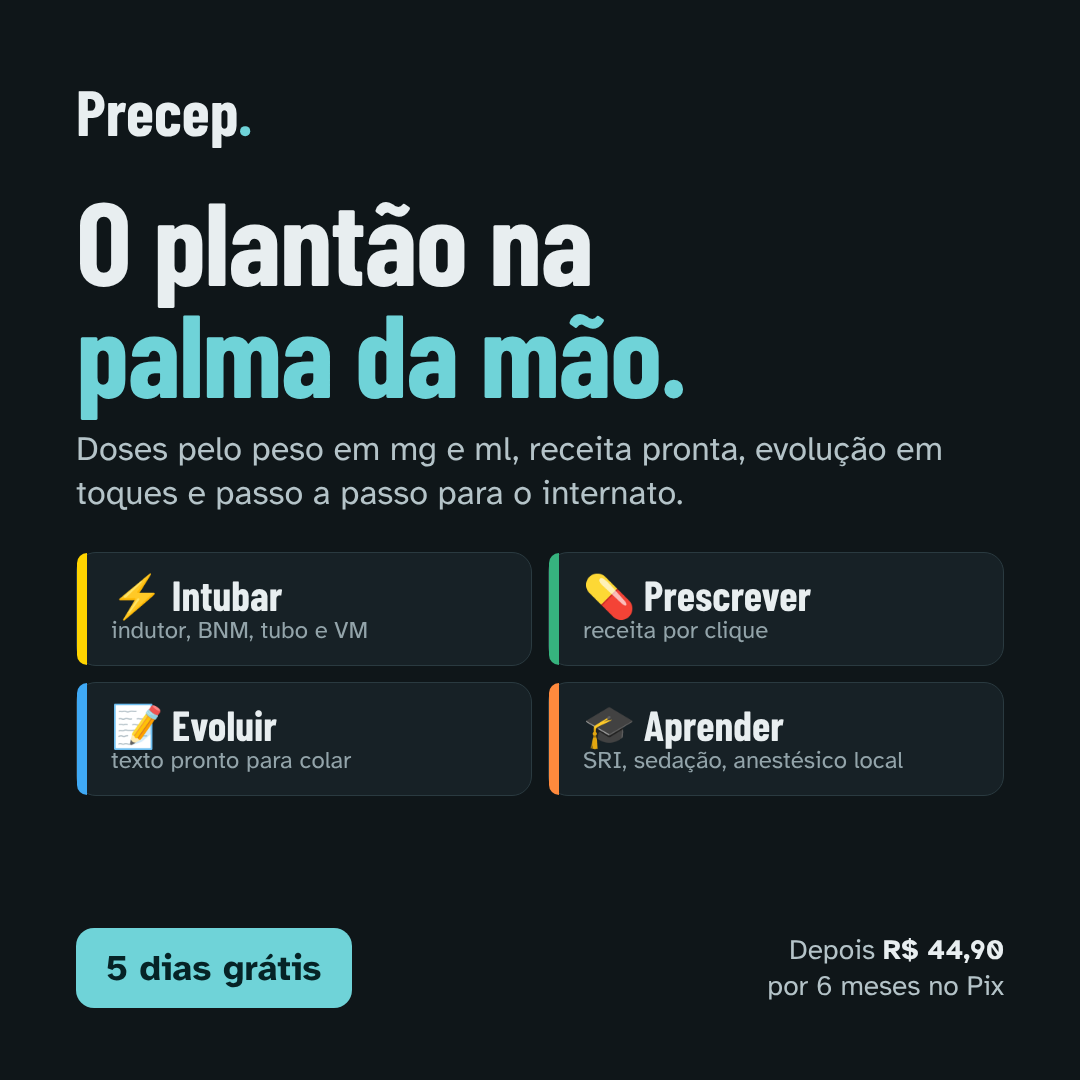
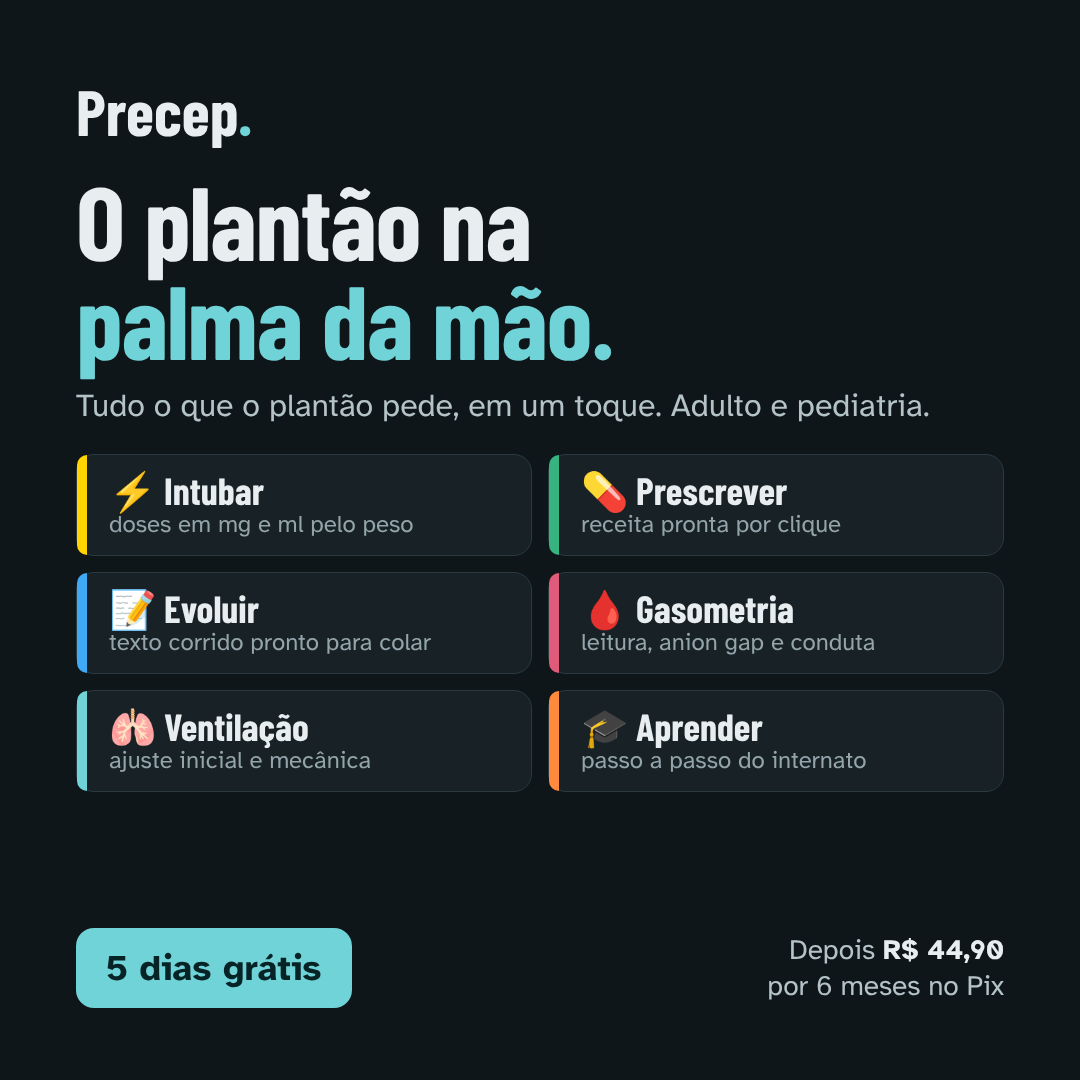
Card e landing com Gasometria, Ventilação e busca
Claude-Session: https://claude.ai/code/session_014XPmqbj38aKvBokMtUZMvW

Changed region(s): [[0.0611, 0.1528, 0.9167, 0.7333]]

diff --git a/conheca.html b/conheca.html
@@ -109,10 +109,13 @@ footer{padding:28px 0 40px;border-top:1px solid var(--line);font-size:14px;color
 
   <section>
     <h2>Tudo o que o plantão pede, em um toque</h2>
+    <p class="sub" style="font-size:17px;margin-bottom:16px">E uma busca que acha qualquer droga, receita ou procedimento pelo nome.</p>
     <div class="grid g2">
       <div class="card" style="--k:var(--c-i)"><h3>⚡ Intubar</h3><p>Peso e motivo. Saem indutor, bloqueador, tubo, ventilação inicial e checklist, ajustados para choque, TCE, broncoespasmo e criança.</p></div>
       <div class="card" style="--k:var(--c-p)"><h3>💊 Prescrever</h3><p>Soluções por classe com dose pelo peso e receitas prontas por condição. Copia direto para o prontuário ou para o Word.</p></div>
-      <div class="card" style="--k:var(--c-e)"><h3>📝 Evoluir</h3><p>PA, reavaliação, alta, UTI por sistemas, passagem de plantão. Toque nos achados e o texto sai pronto.</p></div>
+      <div class="card" style="--k:var(--c-e)"><h3>📝 Evoluir</h3><p>PA, reavaliação, alta, UTI por sistemas, passagem de plantão. Toque nos achados e sai um texto corrido pronto, com os exames do paciente já preenchidos.</p></div>
+      <div class="card" style="--k:#E05A7A"><h3>🩸 Gasometria</h3><p>Lance os valores e veja o distúrbio, a compensação, o anion gap corrigido, o delta-delta e a conduta sugerida. Vai direto para a evolução.</p></div>
+      <div class="card" style="--k:var(--accent)"><h3>🫁 Ventilação mecânica</h3><p>Volume corrente pelo peso predito, ajuste inicial para SDRA, asma/DPOC, TCE e criança, driving pressure e complacência.</p></div>
       <div class="card" style="--k:var(--c-a)"><h3>🛏 Pacientes</h3><p>Leito, problemas, pendências e exames com tendência. Pasta compartilhada com a equipe por código.</p></div>
     </div>
   </section>
@@ -138,6 +141,7 @@ footer{padding:28px 0 40px;border-top:1px solid var(--line);font-size:14px;color
         <li>Sem cartão e sem renovação automática</li>
         <li>Funciona no celular, instala como app e abre sem internet</li>
         <li>Adulto e pediatria</li>
+        <li>Texto normal ou em maiúsculas, como o seu serviço pede</li>
       </ul>
     </div>
   </section>
